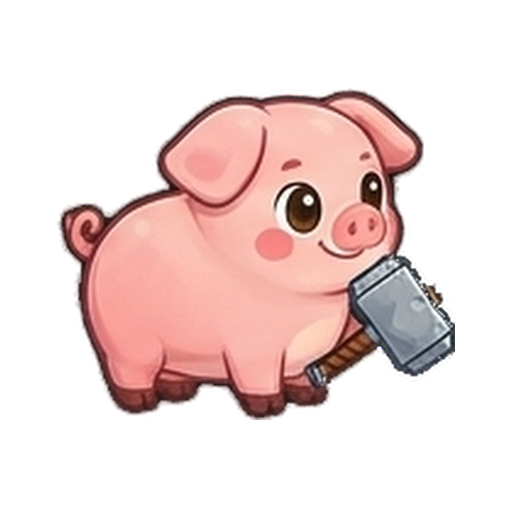
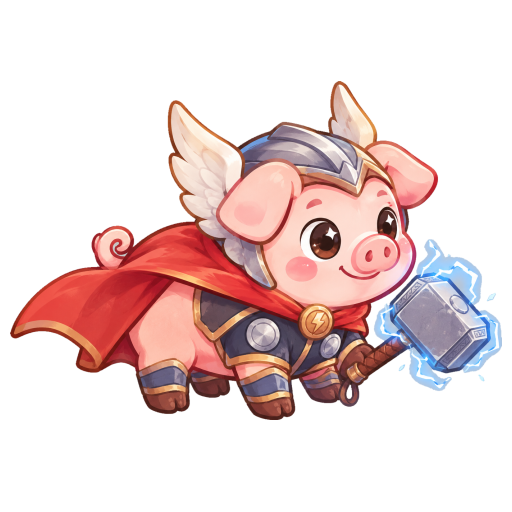
feat(art): new base art for the Thor pig from the owner's redesign, with sleep and wake frames

diff --git a/docs/ASSET_TODO.md b/docs/ASSET_TODO.md
@@ -16,7 +16,7 @@
 | `fx_shield_dome` khung 4 | Khung 4 ảnh Gemini (vòm kính trắng rất nhạt) bị mất khi xóa nền → **dựng bằng code** từ khung 3 (to 6 %, mờ 45 %). Tạo lại sheet **A11** nếu muốn khung 4 thật (vòm đậm viền hơn). |
 | `fxp_*` sheet B7–B12 | Nguồn ~300 px phóng lên 512 px, hơi mềm khi phóng to giữa màn. Có thể tạo lại ở độ phân giải cao hơn. |
 | ~~Key pose `cb_<art>_<pose>` 21 combat animal + 22 quái (258 ảnh)~~ | Xong 2026-10-30 (batch `adventure-13-combat-poses`), cắt bằng `cut_blobs.py`; quái có pose → xóa `facing`. `pig_crystal`: ảnh idle thành ảnh gốc (+ ngủ / thức). |
-| **A08 Heo Thor — cần tạo lại** | Sheet lần 1 mất mũ cánh + áo choàng (đổi tên `A08_old_khong_dat.png`). Prompt đã làm lại 2026-10-30: ảnh mẫu (đính kèm 2) là Thor mới cắt từ `A08_new_asset.png`, mô tả mới trong `_design/build.mjs`. Render rồi lưu `A08.png`. Ảnh gốc `pig_thor` ở Farm vẫn là bản cũ (chưa duyệt đổi). |
+| **A08 Heo Thor — cần tạo lại** | Sheet lần 1 mất mũ cánh + áo choàng (đổi tên `A08_old_khong_dat.png`). Prompt đã làm lại 2026-10-30: ảnh mẫu (đính kèm 2) là Thor mới cắt từ `A08_new_asset.png`, mô tả mới trong `_design/build.mjs`. Render rồi lưu `A08.png`. Ảnh gốc `pig_thor` đã đổi sang Thor mới (2026-10-30, kèm ngủ / thức); tới khi có A08, trận dùng ảnh gốc này. |
 | Nên tạo lại (không bắt buộc) | **A13** Phượng Hoàng: pose hurt / ko vẽ nhỏ hơn idle. **E04** Cáo Lửa: sheet 3 hàng, pose victory to hơn các pose khác. **E03** Chim Sẻ Sấm: sheet 3×3 (9 con), đã chọn 6 ô. **A16** Heo Ngân Hà: chỉ có bản .jpg 1024 px (mỗi ô ~340 px, hơi mềm). **E05** Ếch Sương: còn vạch đất mảnh dưới pose attack / ko. **E22** đặt tên file khác (`Chibi Golem Guardian Pose Sheet.png`), đã dùng làm E22. |
 | ~~Ảnh gốc mới của 5 heo~~ | Xong 2026-10-30 (chủ dự án duyệt): `pig_phoenix`, `pig_turtle`, `pig_thienlong`, `pig_boar`, `pig_hedgehog` lấy hình chính trong `*_new*asset.png`, kèm ngủ / thức (`art:sleep`; Phượng Hoàng thêm ô mắt ở `scripts/assets/eyes.ts`). Rùa và Heo Rừng nguồn ~470–515 px nên hơi mềm. |
 | **12 quái mới N01–N12 — chưa có** | Chưa render (để làm cùng đợt mở rộng map). Khi có: ảnh idle thành ảnh gốc `enemy_*`, cần decision gameplay (chỉ số, kỹ năng, vùng, rơi đồ) trước khi vào `enemies.json` / `maps.json`. |
